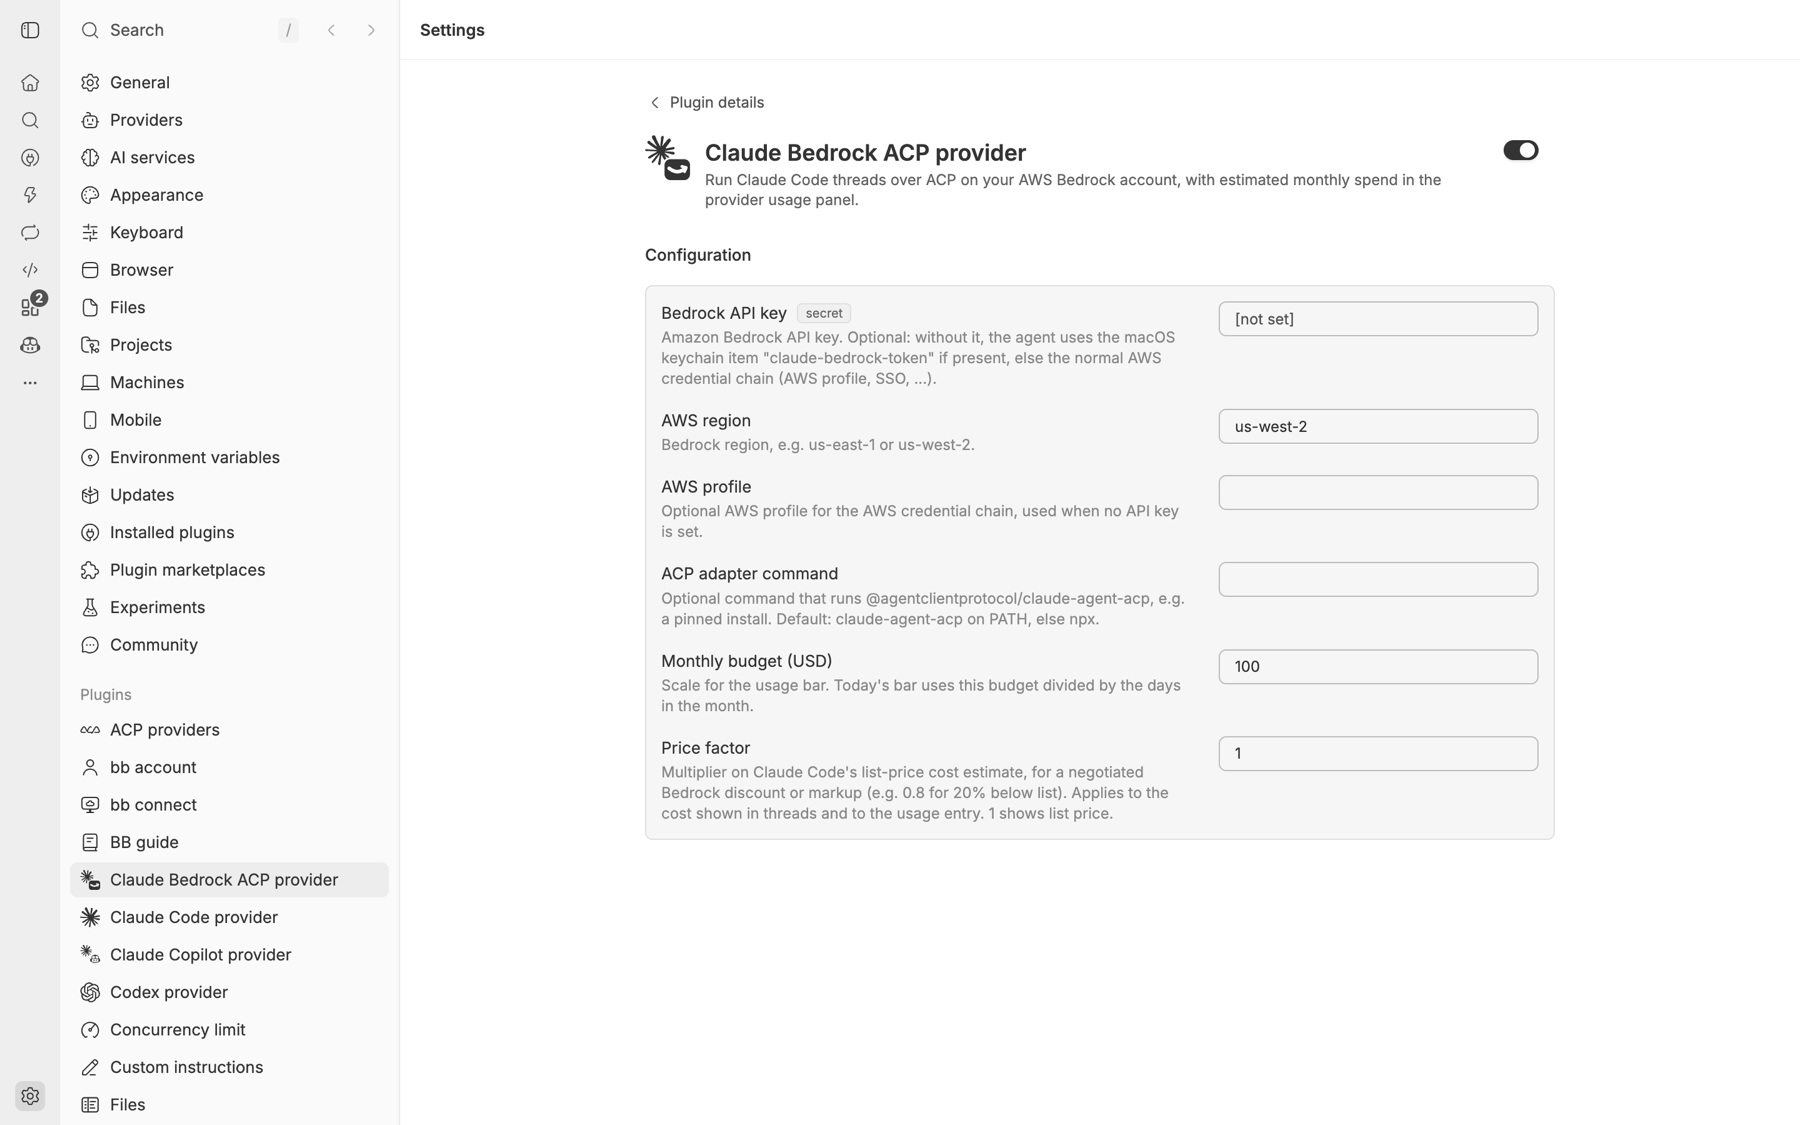
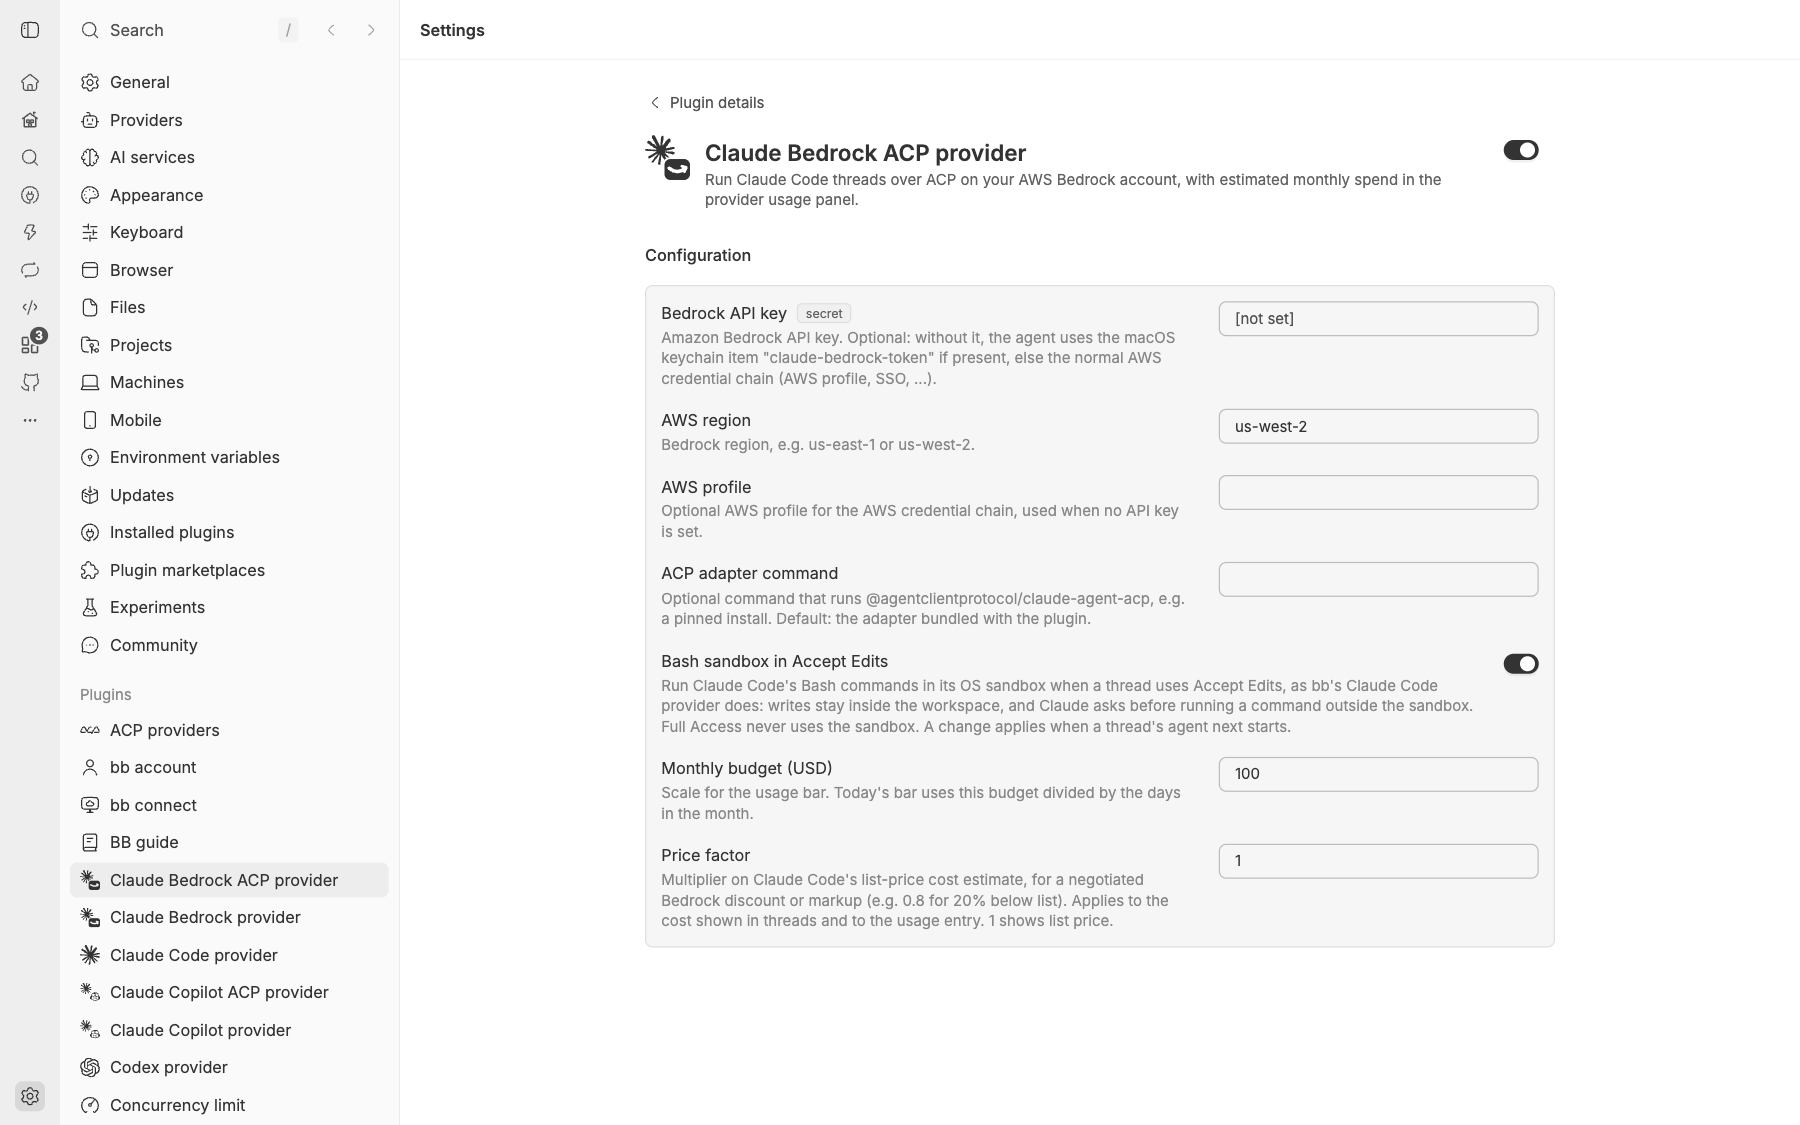
Retake the settings screenshot with the Bash sandbox setting

diff --git a/README.md b/README.md
@@ -27,9 +27,9 @@ Provider usage panel (bottom left):
 
 ![New thread with the Claude Code (Bedrock ACP) provider selected and its model list open; the Provider usage panel shows this month and today against the budget](docs/overview.png)
 
-The plugin settings: API key, region, adapter, budget and price factor.
+The plugin settings: API key, region, profile, adapter, Bash sandbox, budget and price factor.
 
-![Claude Bedrock ACP provider settings with API key, region, profile, adapter command, monthly budget and price factor](docs/settings.png)
+![Claude Bedrock ACP provider settings with API key, region, profile, adapter command, Bash sandbox in Accept Edits, monthly budget and price factor](docs/settings.png)
 
 ## Requirements
 
